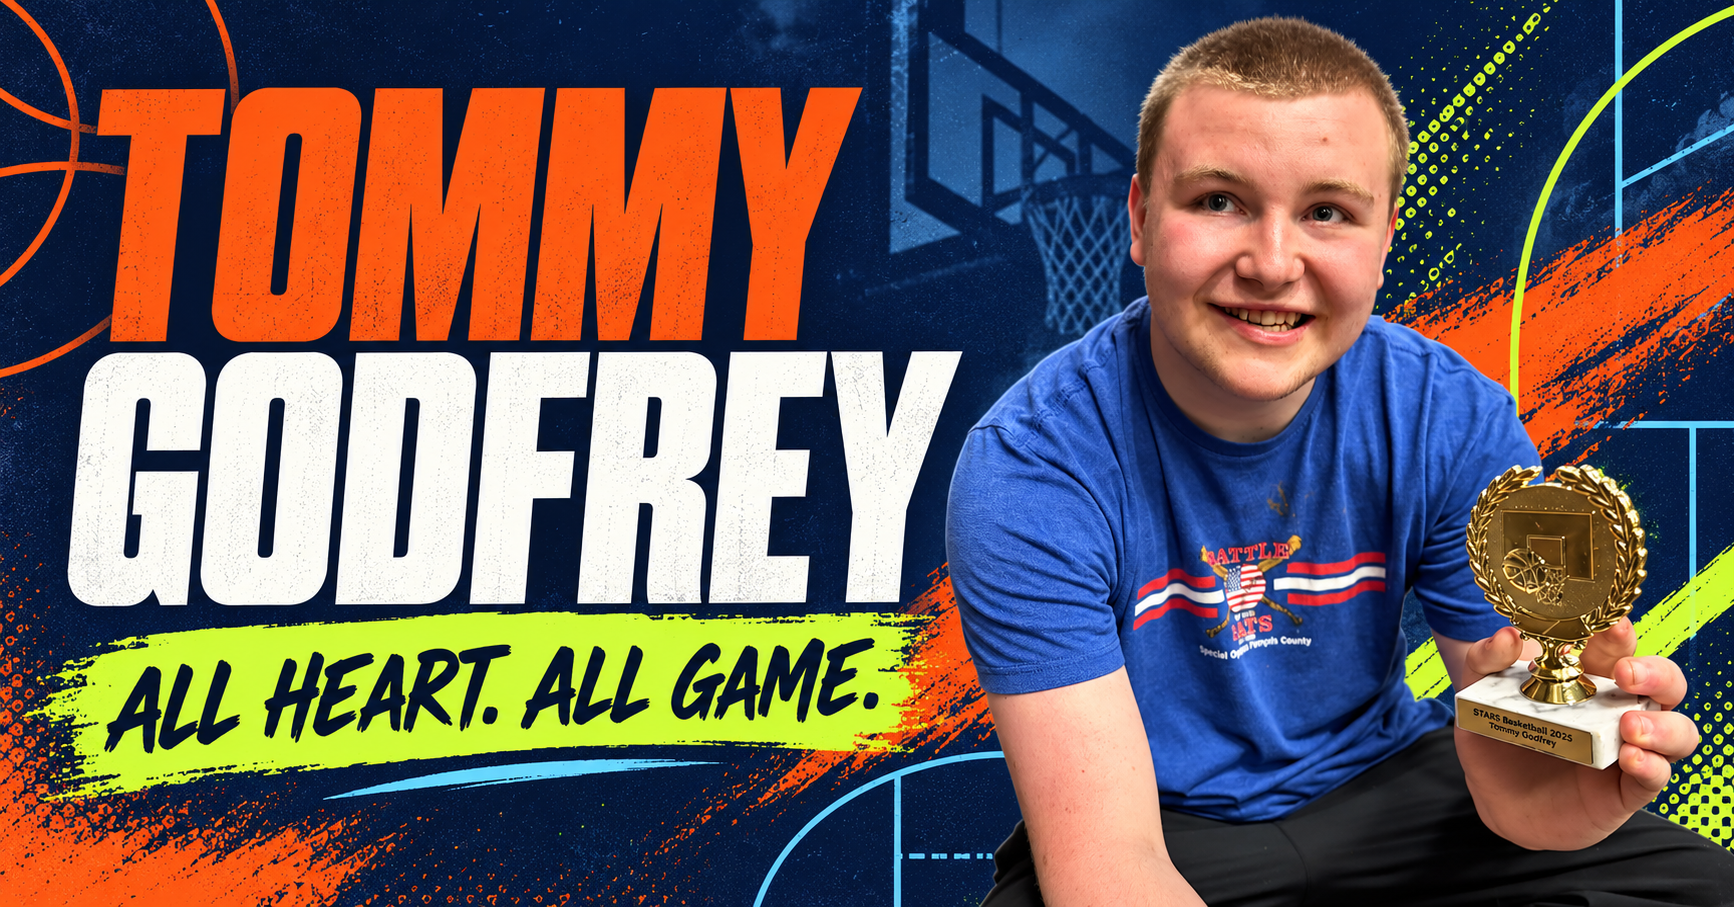
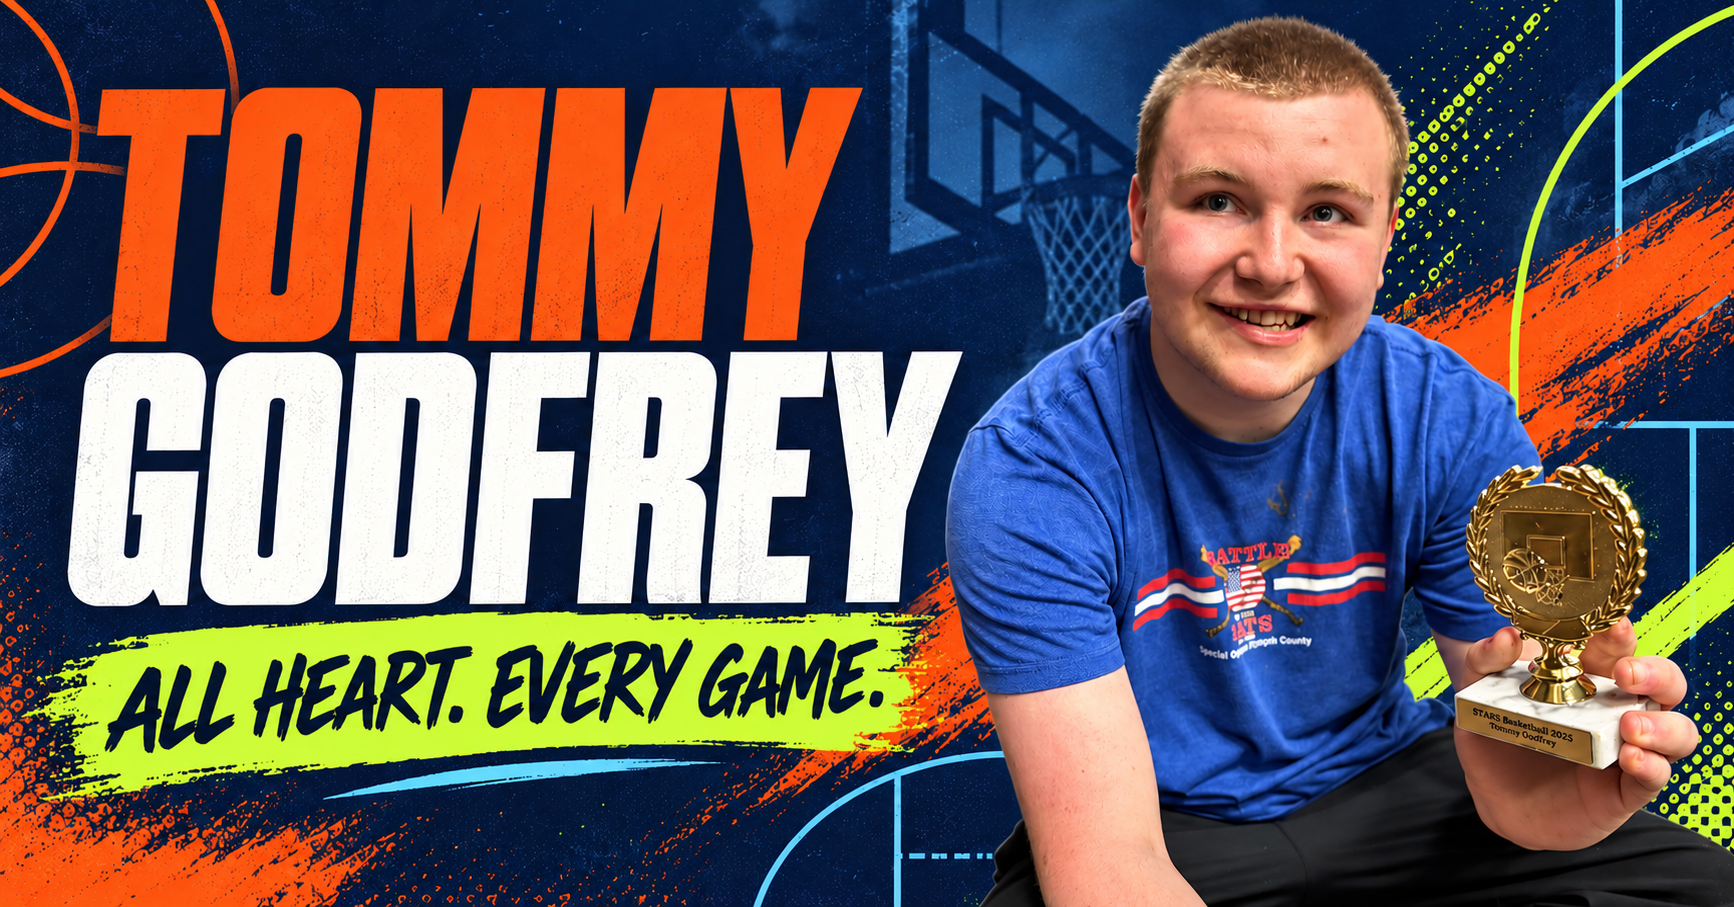
Update tagline to All Heart Every Game

diff --git a/app/globals.css b/app/globals.css
@@ -355,7 +355,7 @@ body:before {
 .hero-copy { grid-template-columns: minmax(0, 1.8fr) minmax(230px, .52fr); }
 .hero h1 { font-size: clamp(76px, 10.6vw, 168px); }
 .hero h1 span { display: block; }
-.hero h1 span:last-child { margin-left: .28em; }
+.hero h1 span:last-child { margin-left: .28em; font-size: .86em; letter-spacing: -.055em; }
 .hero h1 em { position: relative; z-index: 0; }
 .hero h1 em:after {
   content: "";
@@ -431,7 +431,7 @@ body:before {
 .section-label:after { content: ""; height: 1px; flex: 1; margin-left: 8px; background: currentColor; opacity: .22; }
 .story-grid { position: relative; }
 .story-grid:after {
-  content: "ALL HEART / ALL GAME";
+  content: "ALL HEART / EVERY GAME";
   position: absolute;
   left: 1vw;
   bottom: -58px;
@@ -618,7 +618,7 @@ body:before {
   .hero:after { inset: 72px 0 0; border: 0; }
   .hero-photo { inset: 72px 0 0; width: 100%; clip-path: none; }
   .hero h1 { font-size: clamp(67px, 18vw, 116px); }
-  .hero h1 span:last-child { margin-left: 0; }
+  .hero h1 span:last-child { margin-left: 0; font-size: .86em; }
   .hero-copy p { padding: 12px 0 0; border-left: 0; border-top: 2px solid var(--lime); }
   .hero-rail { display: none; }
   .scoreboard { grid-template-columns: 1fr 1fr; }

diff --git a/app/layout.tsx b/app/layout.tsx
@@ -16,18 +16,18 @@ const body = Manrope({
 
 export const metadata: Metadata = {
   metadataBase: new URL(process.env.RENDER_EXTERNAL_URL ?? "http://localhost:3000"),
-  title: "Tommy Godfrey | All Heart. All Game.",
+  title: "Tommy Godfrey | All Heart. Every Game.",
   description: "Meet Tommy Godfrey, a 16-year-old nonverbal autistic multi-sport athlete celebrating competition, joy, and autistic excellence.",
   icons: { icon: "/favicon.svg", shortcut: "/favicon.svg" },
   openGraph: {
-    title: "Tommy Godfrey | All Heart. All Game.",
+    title: "Tommy Godfrey | All Heart. Every Game.",
     description: "A superstar, a winner, and a celebration of autistic excellence through sport.",
     type: "website",
-    images: [{ url: "/og.png", width: 1200, height: 630, alt: "Tommy Godfrey — All Heart. All Game." }],
+    images: [{ url: "/og.png", width: 1200, height: 630, alt: "Tommy Godfrey — All Heart. Every Game." }],
   },
   twitter: {
     card: "summary_large_image",
-    title: "Tommy Godfrey | All Heart. All Game.",
+    title: "Tommy Godfrey | All Heart. Every Game.",
     description: "A superstar, a winner, and a celebration of autistic excellence through sport.",
     images: ["/og.png"],
   },

diff --git a/app/page.tsx b/app/page.tsx
@@ -132,7 +132,7 @@ export default function Home() {
           <div className="hero-copy">
             <h1>
               <span>ALL <em>HEART.</em></span>
-              <span>ALL <em>GAME.</em></span>
+              <span>EVERY <em>GAME.</em></span>
             </h1>
             <p>
               Tommy Godfrey is a 16-year-old nonverbal autistic athlete,
